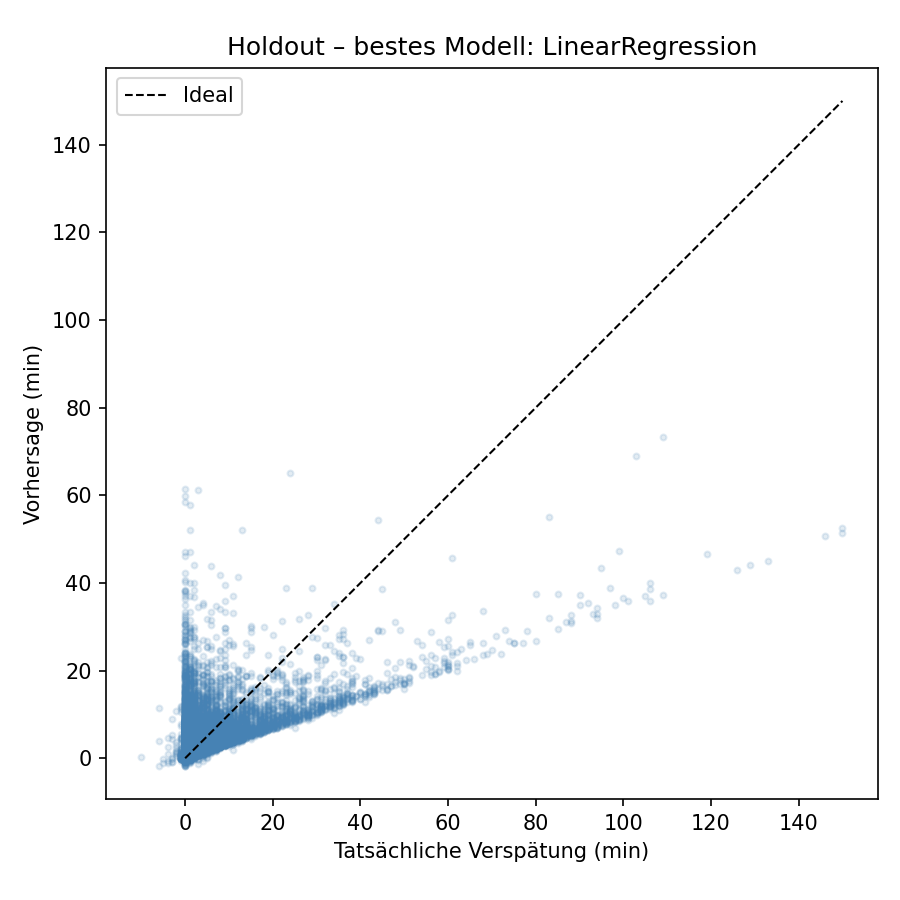
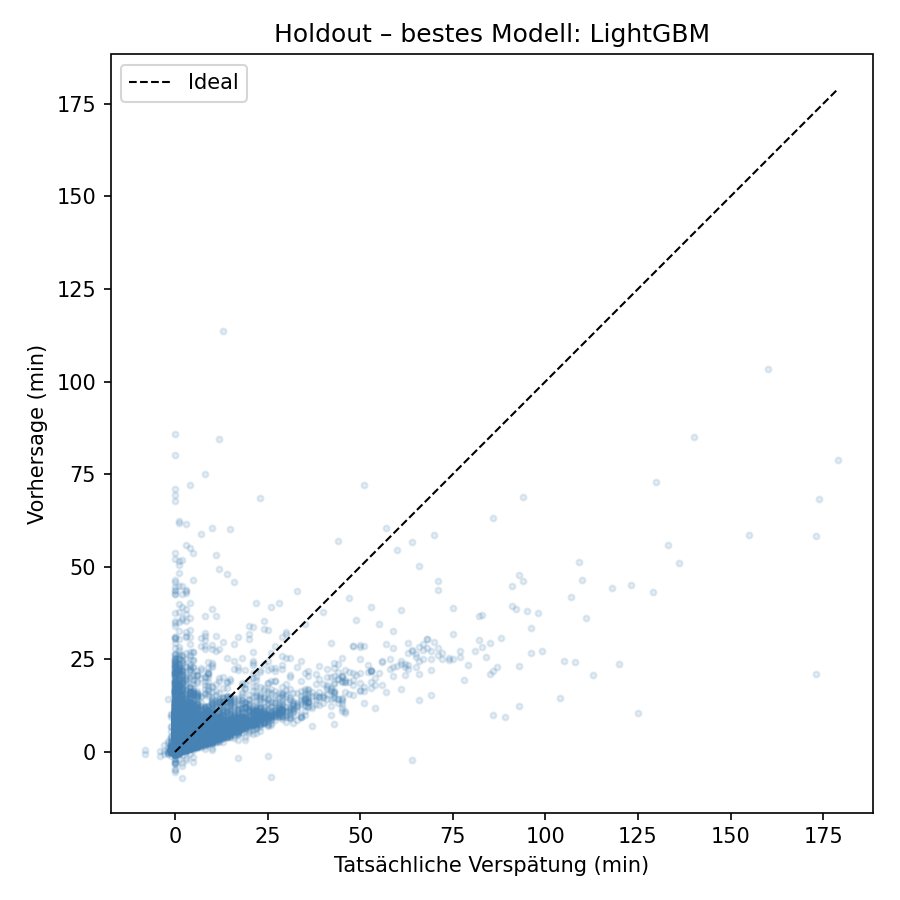
docs: README images and comment cleanup - Point plot embeds at raw.githubusercontent.com so they render on GitHub

diff --git a/eda.py b/eda.py
@@ -19,7 +19,6 @@ df = load_data(paths)
 df = filter_and_clean(df)
 print(f"Bereinigt: {df.shape[0]:,} Zeilen\n")
 
-# Plot 1 – Verspätungsverteilung
 fig, ax = plt.subplots(figsize=(10, 4))
 sns.histplot(df["delay_in_min"], bins=60, kde=True, ax=ax, color="steelblue")
 ax.set_title("Verteilung der Verspätungen (Deutsche Bahn)")
@@ -29,7 +28,6 @@ plt.savefig(ROOT / "outputs/plots/delay_distribution.png", dpi=150)
 plt.close()
 print("saved: delay_distribution.png")
 
-# Plot 2 – Nach Stunde
 df["hour"] = pd.to_datetime(df["departure_planned_time"]).dt.hour
 fig, ax = plt.subplots(figsize=(10, 4))
 df.groupby("hour")["delay_in_min"].mean().plot(kind="bar", color="steelblue", ax=ax)
@@ -41,7 +39,6 @@ plt.savefig(ROOT / "outputs/plots/delay_by_hour.png", dpi=150)
 plt.close()
 print("saved: delay_by_hour.png")
 
-# Plot 3 – Nach Wochentag
 days = ["Mo", "Di", "Mi", "Do", "Fr", "Sa", "So"]
 df["weekday"] = pd.to_datetime(df["departure_planned_time"]).dt.dayofweek
 fig, ax = plt.subplots(figsize=(10, 4))
@@ -55,7 +52,6 @@ plt.savefig(ROOT / "outputs/plots/delay_by_weekday.png", dpi=150)
 plt.close()
 print("saved: delay_by_weekday.png")
 
-# Plot 4 – Top 10 Bahnhöfe
 fig, ax = plt.subplots(figsize=(8, 5))
 (
     df.groupby("station_name")["delay_in_min"]

diff --git a/src/train.py b/src/train.py
@@ -1,6 +1,7 @@
 import matplotlib.pyplot as plt
 import numpy as np
 import pandas as pd
+from lightgbm import LGBMRegressor
 from sklearn.dummy import DummyRegressor
 from sklearn.ensemble import HistGradientBoostingRegressor, RandomForestRegressor
 from sklearn.linear_model import LinearRegression
@@ -17,6 +18,7 @@ ML_MODEL_NAMES = (
     "LinearRegression",
     "RandomForest",
     "HistGradientBoosting",
+    "LightGBM",
 )
 
 
@@ -40,6 +42,14 @@ def get_models() -> dict:
             early_stopping=True,
             validation_fraction=0.05,
             n_iter_no_change=10,
+        ),
+        "LightGBM": LGBMRegressor(
+            n_estimators=500,
+            learning_rate=0.05,
+            num_leaves=63,
+            random_state=RANDOM_STATE,
+            n_jobs=-1,
+            verbose=-1,
         ),
     }
 

diff --git a/README.md b/README.md
@@ -11,26 +11,27 @@ Measured with **`python main.py`** using **`MAX_ROWS=400000`** (same code path a
 | Baseline (mean) | 4.531 | 9.960 | −0.002 |
 | Baseline (lag-1) | 5.416 | 13.456 | −0.828 |
 | LinearRegression | 3.547 | 7.891 | 0.371 |
+| LightGBM | 3.545 | 8.181 | 0.324 |
 | RandomForest | 3.600 | 8.152 | 0.329 |
 | HistGradientBoosting | 3.612 | 7.971 | 0.358 |
 
-vs. mean-only baseline, best ML model (**LinearRegression**): **21.7% lower MAE** on this run.
+vs. mean-only baseline, best ML model (**LightGBM**): **21.8% lower MAE** on this run.
 
-**CV on train only** (TimeSeriesSplit, `k=5`; MAE in minutes): LinearRegression **3.328** ±0.360, RandomForest **3.357** ±0.378, HistGradientBoosting **3.395** ±0.372, Baseline (mean) **4.261** ±0.385.
+**CV on train only** (TimeSeriesSplit, `k=5`; MAE in minutes): LinearRegression **3.328** ±0.360, LightGBM **3.353** ±0.370, RandomForest **3.357** ±0.378, HistGradientBoosting **3.395** ±0.372, Baseline (mean) **4.261** ±0.385.
 
 ### Plots (in repo)
 
-![Model comparison (CV)](outputs/plots/model_comparison.png)
+![Model comparison (CV)](https://github.com/HadiDawoud/db-delay-forecaster/raw/main/outputs/plots/model_comparison.png)
 
-![Feature importance](outputs/plots/feature_importance.png)
+![Feature importance](https://github.com/HadiDawoud/db-delay-forecaster/raw/main/outputs/plots/feature_importance.png)
 
-![Delay distribution](outputs/plots/delay_distribution.png)
+![Delay distribution](https://github.com/HadiDawoud/db-delay-forecaster/raw/main/outputs/plots/delay_distribution.png)
 
-![Delay by hour](outputs/plots/delay_by_hour.png)
+![Delay by hour](https://github.com/HadiDawoud/db-delay-forecaster/raw/main/outputs/plots/delay_by_hour.png)
 
-![Delay by weekday](outputs/plots/delay_by_weekday.png)
+![Delay by weekday](https://github.com/HadiDawoud/db-delay-forecaster/raw/main/outputs/plots/delay_by_weekday.png)
 
-![Top stations](outputs/plots/top_stations.png)
+![Top stations](https://github.com/HadiDawoud/db-delay-forecaster/raw/main/outputs/plots/top_stations.png)
 
 After a full `python main.py` run, `holdout_predictions.png` may appear in `outputs/plots/` as well.
 
@@ -95,7 +96,7 @@ After `main.py`, you get holdout **MAE / RMSE / R²**, two **naive baselines** (
 
 See **Results** above for measured numbers; `main.py` prints fresh metrics for your data and Parquet files.
 
-- Same run as the table: best ML MAE **3.547 min**; **21.7%** lower MAE than mean baseline.
+- Same run as the table: best ML MAE **3.545 min** (LightGBM); **21.8%** lower MAE than mean baseline.
 
 ---
 
@@ -114,7 +115,7 @@ Nach `main.py` gibt es Holdout-Metriken, **zwei naive Baselines** und die ML-Mod
 - **Stunde / Rush Hour** zeigen oft Last und Folgeverspätungen.
 - Wenn **RandomForest** klar besser ist als **LinearRegression**, spielen **nichtlineare** Effekte mit; bei ähnlichen Scores dominiert oft ein **lineares** Signal nach Feature-Aufbereitung.
 
-Siehe **Results** oben. Derselbe Lauf: bestes ML-Modell **LinearRegression**, MAE **3,547 min**; **21,7 %** weniger MAE als Mean-Baseline. Für neue Zahlen: `main.py` ausführen (optional `MAX_ROWS` setzen, siehe Tabelle).
+Siehe **Results** oben. Derselbe Lauf: bestes ML-Modell **LightGBM**, MAE **3,545 min**; **21,8 %** weniger MAE als Mean-Baseline. Für neue Zahlen: `main.py` ausführen (optional `MAX_ROWS` setzen, siehe Tabelle).
 
 ---
 
@@ -195,7 +196,7 @@ Venv anlegen, Befehle vom **Projektroot** ausführen. Jupyter: Inhalt aus `eda.p
 
 ```bash
 pip install -r requirements.txt
-# oder: pip install -e .   # gleiche Abhängigkeiten aus pyproject.toml
+# or: pip install -e .   # same dependencies from pyproject.toml
 python data/download.py
 python eda.py
 python main.py
